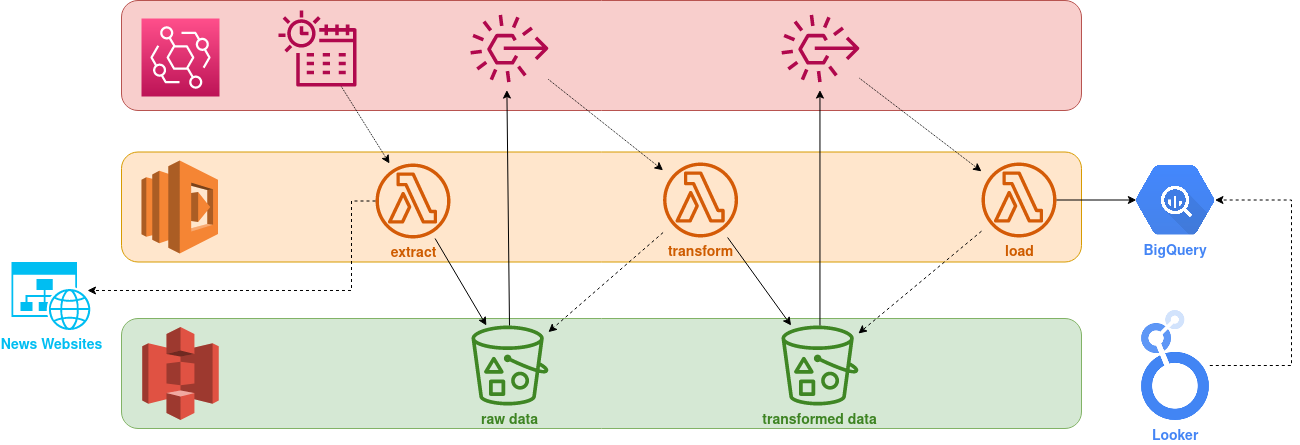
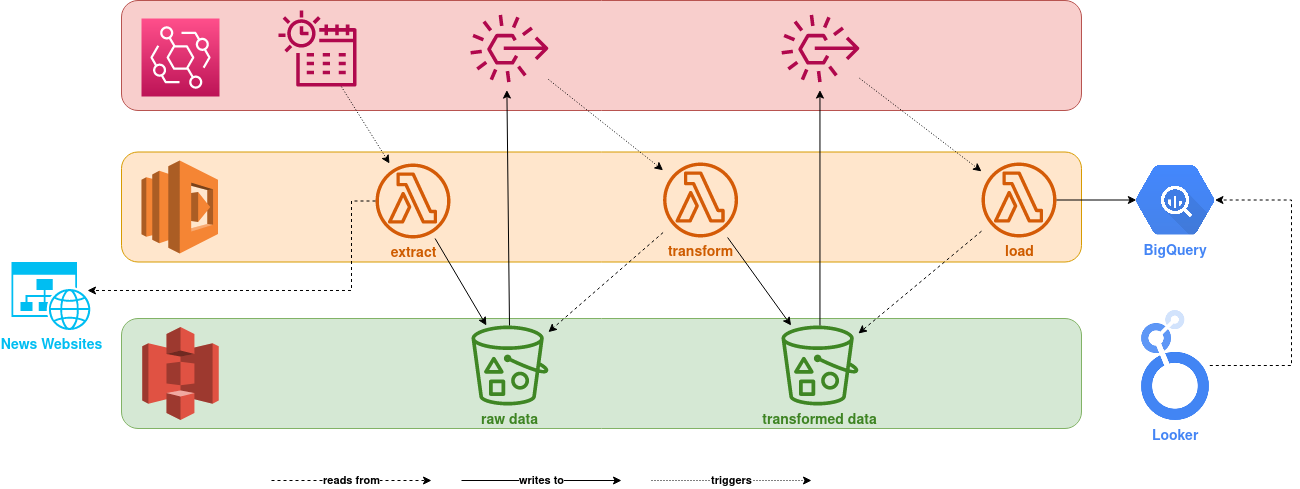
Add monitoring with email alerts and cleanup (#12)
* Send an email alert when a lambda fails
* Fix logging to enable pushing python logs to CloudWatch
* Rearrange imports with isort
* Add explanation to architecture diagram
* Move txt and yaml resources to separate directory

diff --git a/src/monitoring.py b/src/monitoring.py
@@ -1,0 +1,80 @@
+# Source: https://aws.amazon.com/blogs/mt/get-notified-specific-lambda-function-error-patterns-using-cloudwatch/
+
+# A copy of the License is located at## http://aws.amazon.com/apache2.0/
+# or in the "license" file accompanying this file.
+# This file is distributed on an "AS IS" BASIS, WITHOUT WARRANTIES OR CONDITIONS OF ANY KIND,
+# either express or implied. See the License for the specific language governing permissions
+# and limitations under the License.
+# Description: This Lambda function sends an email notification to a given AWS SNS topic when a particular
+#              pattern is matched in the logs of a selected Lambda function. The email subject is
+#              Execution error for Lambda-<insert Lambda function name>.
+#              The JSON message body of the SNS notification contains the full event details.
+# Author: Sudhanshu Malhotra
+from __future__ import annotations
+
+import base64
+import gzip
+import json
+import logging
+import os
+
+import boto3
+from botocore.exceptions import ClientError
+
+logging.basicConfig(level=logging.INFO)
+logger = logging.getLogger(__name__)
+
+
+def logpayload(event):
+    logger.setLevel(logging.DEBUG)
+    logger.debug(event["awslogs"]["data"])
+    compressed_payload = base64.b64decode(event["awslogs"]["data"])
+    uncompressed_payload = gzip.decompress(compressed_payload)
+    log_payload = json.loads(uncompressed_payload)
+    return log_payload
+
+
+def error_details(payload):
+    error_msg = ""
+    log_events = payload["logEvents"]
+    logger.debug(payload)
+    loggroup = payload["logGroup"]
+    logstream = payload["logStream"]
+    lambda_func_name = loggroup.split("/")
+    logger.debug(f"LogGroup: {loggroup}")
+    logger.debug(f"Logstream: {logstream}")
+    logger.debug(f"Function name: {lambda_func_name[3]}")
+    logger.debug(log_events)
+    for log_event in log_events:
+        error_msg += log_event["message"]
+    logger.debug("Message: %s" % error_msg.split("\n"))
+    return loggroup, logstream, error_msg, lambda_func_name
+
+
+def publish_message(loggroup, logstream, error_msg, lambda_func_name):
+    sns_arn = os.environ["snsARN"]  # Getting the SNS Topic ARN passed in by the environment variables.
+    snsclient = boto3.client("sns")
+    try:
+        message = ""
+        message += "\nLambda error  summary" + "\n\n"
+        message += "##########################################################\n"
+        message += "# LogGroup Name:- " + str(loggroup) + "\n"
+        message += "# LogStream:- " + str(logstream) + "\n"
+        message += "# Log Message:- " + "\n"
+        message += "# \t\t" + str(error_msg.split("\n")) + "\n"
+        message += "##########################################################\n"
+
+        # Sending the notification...
+        snsclient.publish(
+            TargetArn=sns_arn,
+            Subject=f"Execution error for Lambda - {lambda_func_name[3]}",
+            Message=message,
+        )
+    except ClientError as e:
+        logger.error("An error occured: %s" % e)
+
+
+def lambda_handler(event, context):
+    pload = logpayload(event)
+    lgroup, lstream, errmessage, lambdaname = error_details(pload)
+    publish_message(lgroup, lstream, errmessage, lambdaname)

diff --git a/src/load.py b/src/load.py
@@ -1,22 +1,17 @@
-import os
 import logging
+import os
 from typing import Iterator
 
-from common.models import WordFrequencies, LoadRecord
-
+from common.models import LoadRecord, WordFrequencies
 from common.utils import (
-    get_datetime_from_s3_key,
-    download_data_from_s3,
-    convert_json_string_to_objects,
-    extract_s3_bucket_and_key_from_event,
-    delete_timestamp_from_bigquery,
-    insert_data_into_bigquery_table,
     DeleteFailedError,
+    convert_json_string_to_objects,
+    delete_timestamp_from_bigquery,
+    download_data_from_s3,
+    extract_s3_bucket_and_key_from_event,
+    get_datetime_from_s3_key,
+    insert_data_into_bigquery_table,
 )
-
-
-logger = logging.getLogger(__name__)
-logging.basicConfig(level=logging.INFO)
 
 
 def load_excluded_words_from_txt(txt_path: str) -> set[str]:
@@ -80,6 +75,13 @@ def load(bucket: str, word_frequencies_key: str):
 # Lambda cold start
 
 
+if logging.getLogger().hasHandlers():
+    logging.getLogger().setLevel(logging.INFO)
+else:
+    logging.basicConfig(level=logging.INFO)
+
+logger = logging.getLogger()
+
 s3_bucket_name = os.environ.get("S3_BUCKET_NAME", "")
 bigquery_table_id = os.environ.get("BIGQUERY_TABLE_ID", "")
 bigquery_delete_before_write = os.environ.get("BIGQUERY_DELETE_BEFORE_WRITE", "false").lower()
@@ -88,9 +90,6 @@ min_word_length = int(os.environ.get("MIN_WORD_LENGTH", "99"))
 min_frequency = int(os.environ.get("MIN_FREQUENCY", "99999"))
 excluded_words_txt_path = os.environ.get("EXCLUDED_WORDS_TXT_PATH", None)
 excluded_words = load_excluded_words_from_txt(excluded_words_txt_path) if excluded_words_txt_path else set()
-
-logger = logging.getLogger(__name__)
-logging.basicConfig(level=log_level)
 
 
 # Lambda handler

diff --git a/src/transform.py b/src/transform.py
@@ -1,28 +1,23 @@
-import nltk
+import logging
 import os
 import re
-import logging
-
-from textblob import Word
 from collections import Counter
 
-from common.models import SiteHeadlines, SiteWordFrequencies, WordFrequencies
+import nltk
+from textblob import Word
 
+from common.models import SiteHeadlines, SiteWordFrequencies, WordFrequencies
 from common.utils import (
-    get_datetime_from_s3_key,
-    download_data_from_s3,
-    convert_json_string_to_objects,
-    sort_dict_by_value,
-    merge_dictionaries_summing_values,
     build_s3_key,
-    extract_s3_bucket_and_key_from_event,
+    convert_json_string_to_objects,
     convert_objects_to_json_string,
+    download_data_from_s3,
+    extract_s3_bucket_and_key_from_event,
+    get_datetime_from_s3_key,
+    merge_dictionaries_summing_values,
+    sort_dict_by_value,
     upload_data_to_s3,
 )
-
-
-logger = logging.getLogger(__name__)
-logging.basicConfig(level=logging.INFO)
 
 
 def count_words_in_text(text: str) -> dict:
@@ -78,12 +73,16 @@ def transform(bucket: str, site_headline_list_key: str):
 # Lambda cold start
 
 
+if logging.getLogger().hasHandlers():
+    logging.getLogger().setLevel(logging.INFO)
+else:
+    logging.basicConfig(level=logging.INFO)
+
+logger = logging.getLogger()
+
 s3_bucket_name = os.environ.get("S3_BUCKET_NAME", "")
 transform_s3_prefix = os.environ.get("TRANSFORM_S3_PREFIX", "")
 log_level = os.environ.get("LOG_LEVEL", "INFO").upper()
-
-logger = logging.getLogger(__name__)
-logging.basicConfig(level=log_level)
 
 nltk.data.path.append("/tmp")
 nltk.download("wordnet", download_dir="/tmp")

diff --git a/src/extract.py b/src/extract.py
@@ -1,5 +1,5 @@
-import os
 import logging
+import os
 
 import requests
 import yaml
@@ -7,10 +7,10 @@ from bs4 import BeautifulSoup
 
 from common.models import Filter, Site, SiteHeadlines
 from common.utils import (
-    get_current_timestamp,
     build_s3_key,
     coalesce_dict_values,
     convert_objects_to_json_string,
+    get_current_timestamp,
     upload_data_to_s3,
 )
 
@@ -82,6 +82,13 @@ def extract():
 # Lambda cold start
 
 
+if logging.getLogger().hasHandlers():
+    logging.getLogger().setLevel(logging.INFO)
+else:
+    logging.basicConfig(level=logging.INFO)
+
+logger = logging.getLogger()
+
 request_headers = {
     "User-Agent": """Mozilla/5.0 (Macintosh; Intel Mac OS X 10_11_5) \
                             AppleWebKit/537.36 (KHTML, like Gecko) \
@@ -92,9 +99,6 @@ s3_bucket_name = os.environ.get("S3_BUCKET_NAME", "")
 extract_s3_prefix = os.environ.get("EXTRACT_S3_PREFIX", "")
 sites_yaml_path = os.environ.get("SITES_YAML_PATH", "")
 log_level = os.environ.get("LOG_LEVEL", "INFO").upper()
-
-logger = logging.getLogger(__name__)
-logging.basicConfig(level=log_level)
 
 
 # Lambda handler

diff --git a/tests/test_e2e.py b/tests/test_e2e.py
@@ -1,20 +1,17 @@
 import json
 from datetime import datetime, timezone
 from unittest.mock import patch
-from requests.models import Response
 
-import moto
 import boto3
-
+import moto
 from pydantic import HttpUrl
 from pydantic.tools import parse_obj_as
+from requests.models import Response
 
+from common.models import Filter, Site
 from extract import lambda_handler as extract_lambda_handler
-from transform import lambda_handler as transform_lambda_handler
 from load import lambda_handler as load_lambda_handler
-
-from common.models import Site, Filter
-
+from transform import lambda_handler as transform_lambda_handler
 
 # Global variables normally set by environment variables at lambda cold start
 

diff --git a/src/common/utils.py b/src/common/utils.py
@@ -1,12 +1,13 @@
-from datetime import datetime, timezone
 import json
-import boto3
-from collections.abc import Iterable
 from collections import Counter
-from typing import Protocol, Any, Optional, Union, Sequence
+from collections.abc import Iterable
+from datetime import datetime, timezone
+from typing import Any, Optional, Protocol, Sequence, Union
+
+import boto3
+from google.api_core.exceptions import BadRequest as GcpBadRequest
 from google.cloud import bigquery
 from google.oauth2 import service_account
-from google.api_core.exceptions import BadRequest as GcpBadRequest
 
 
 class HasDict(Protocol):

diff --git a/tests/test_utils.py b/tests/test_utils.py
@@ -1,17 +1,19 @@
 import datetime
 import json
-import pytest
+
 import boto3
 import moto
+import pytest
+
 from common.utils import (
     build_s3_key,
-    convert_objects_to_json_string,
     coalesce_dict_values,
-    merge_dictionaries_summing_values,
+    convert_objects_to_json_string,
     extract_s3_bucket_and_key_from_event,
-    upload_data_to_s3,
     get_datetime_from_s3_key,
+    merge_dictionaries_summing_values,
     sort_dict_by_value,
+    upload_data_to_s3,
 )
 
 

diff --git a/src/scripts/_backfill.py b/src/scripts/_backfill.py
@@ -1,8 +1,13 @@
-import sys
 import sqlite3
-from common.models import SiteHeadlines
-from common.utils import build_s3_key, convert_objects_to_json_string, upload_data_to_s3
+import sys
 from datetime import datetime, timedelta
+
+from common.models import SiteHeadlines
+from common.utils import (
+    build_s3_key,
+    convert_objects_to_json_string,
+    upload_data_to_s3,
+)
 
 
 def iterate_dates(start_date, end_date):

diff --git a/tests/test_transform.py b/tests/test_transform.py
@@ -1,8 +1,11 @@
 import pytest
 
-from transform import count_words_in_text, get_site_word_frequencies_from_site_headlines, merge_site_word_frequencies
-
 from common.models import SiteHeadlines, SiteWordFrequencies, WordFrequencies
+from transform import (
+    count_words_in_text,
+    get_site_word_frequencies_from_site_headlines,
+    merge_site_word_frequencies,
+)
 
 
 @pytest.mark.parametrize(

diff --git a/tests/test_load.py b/tests/test_load.py
@@ -1,12 +1,9 @@
-import pytest
 from typing import Iterator
 
-from load import (
-    filter_word_frequencies,
-    generate_load_records,
-)
+import pytest
 
-from common.models import WordFrequencies, LoadRecord
+from common.models import LoadRecord, WordFrequencies
+from load import filter_word_frequencies, generate_load_records
 
 
 def test_load_excluded_words_from_txt():

diff --git a/tests/conftest.py b/tests/conftest.py
@@ -4,7 +4,14 @@ import pytest
 from pydantic import HttpUrl
 from pydantic.tools import parse_obj_as
 
-from common.models import Filter, Site, SiteHeadlines, SiteWordFrequencies, WordFrequencies, LoadRecord
+from common.models import (
+    Filter,
+    LoadRecord,
+    Site,
+    SiteHeadlines,
+    SiteWordFrequencies,
+    WordFrequencies,
+)
 
 
 @pytest.fixture

diff --git a/README.md b/README.md
@@ -1,6 +1,6 @@
 # 🗞Newswatch🗞
 
-Visualising the most frequent words in British newspaper headlines over time.
+Visualising words frequencies in British newspaper headlines over time.
 
 **[Link to the dashboard](https://lookerstudio.google.com/reporting/cace127d-4866-4fcf-ae4c-a3f861e52a92 "Looker Studio")**
 
